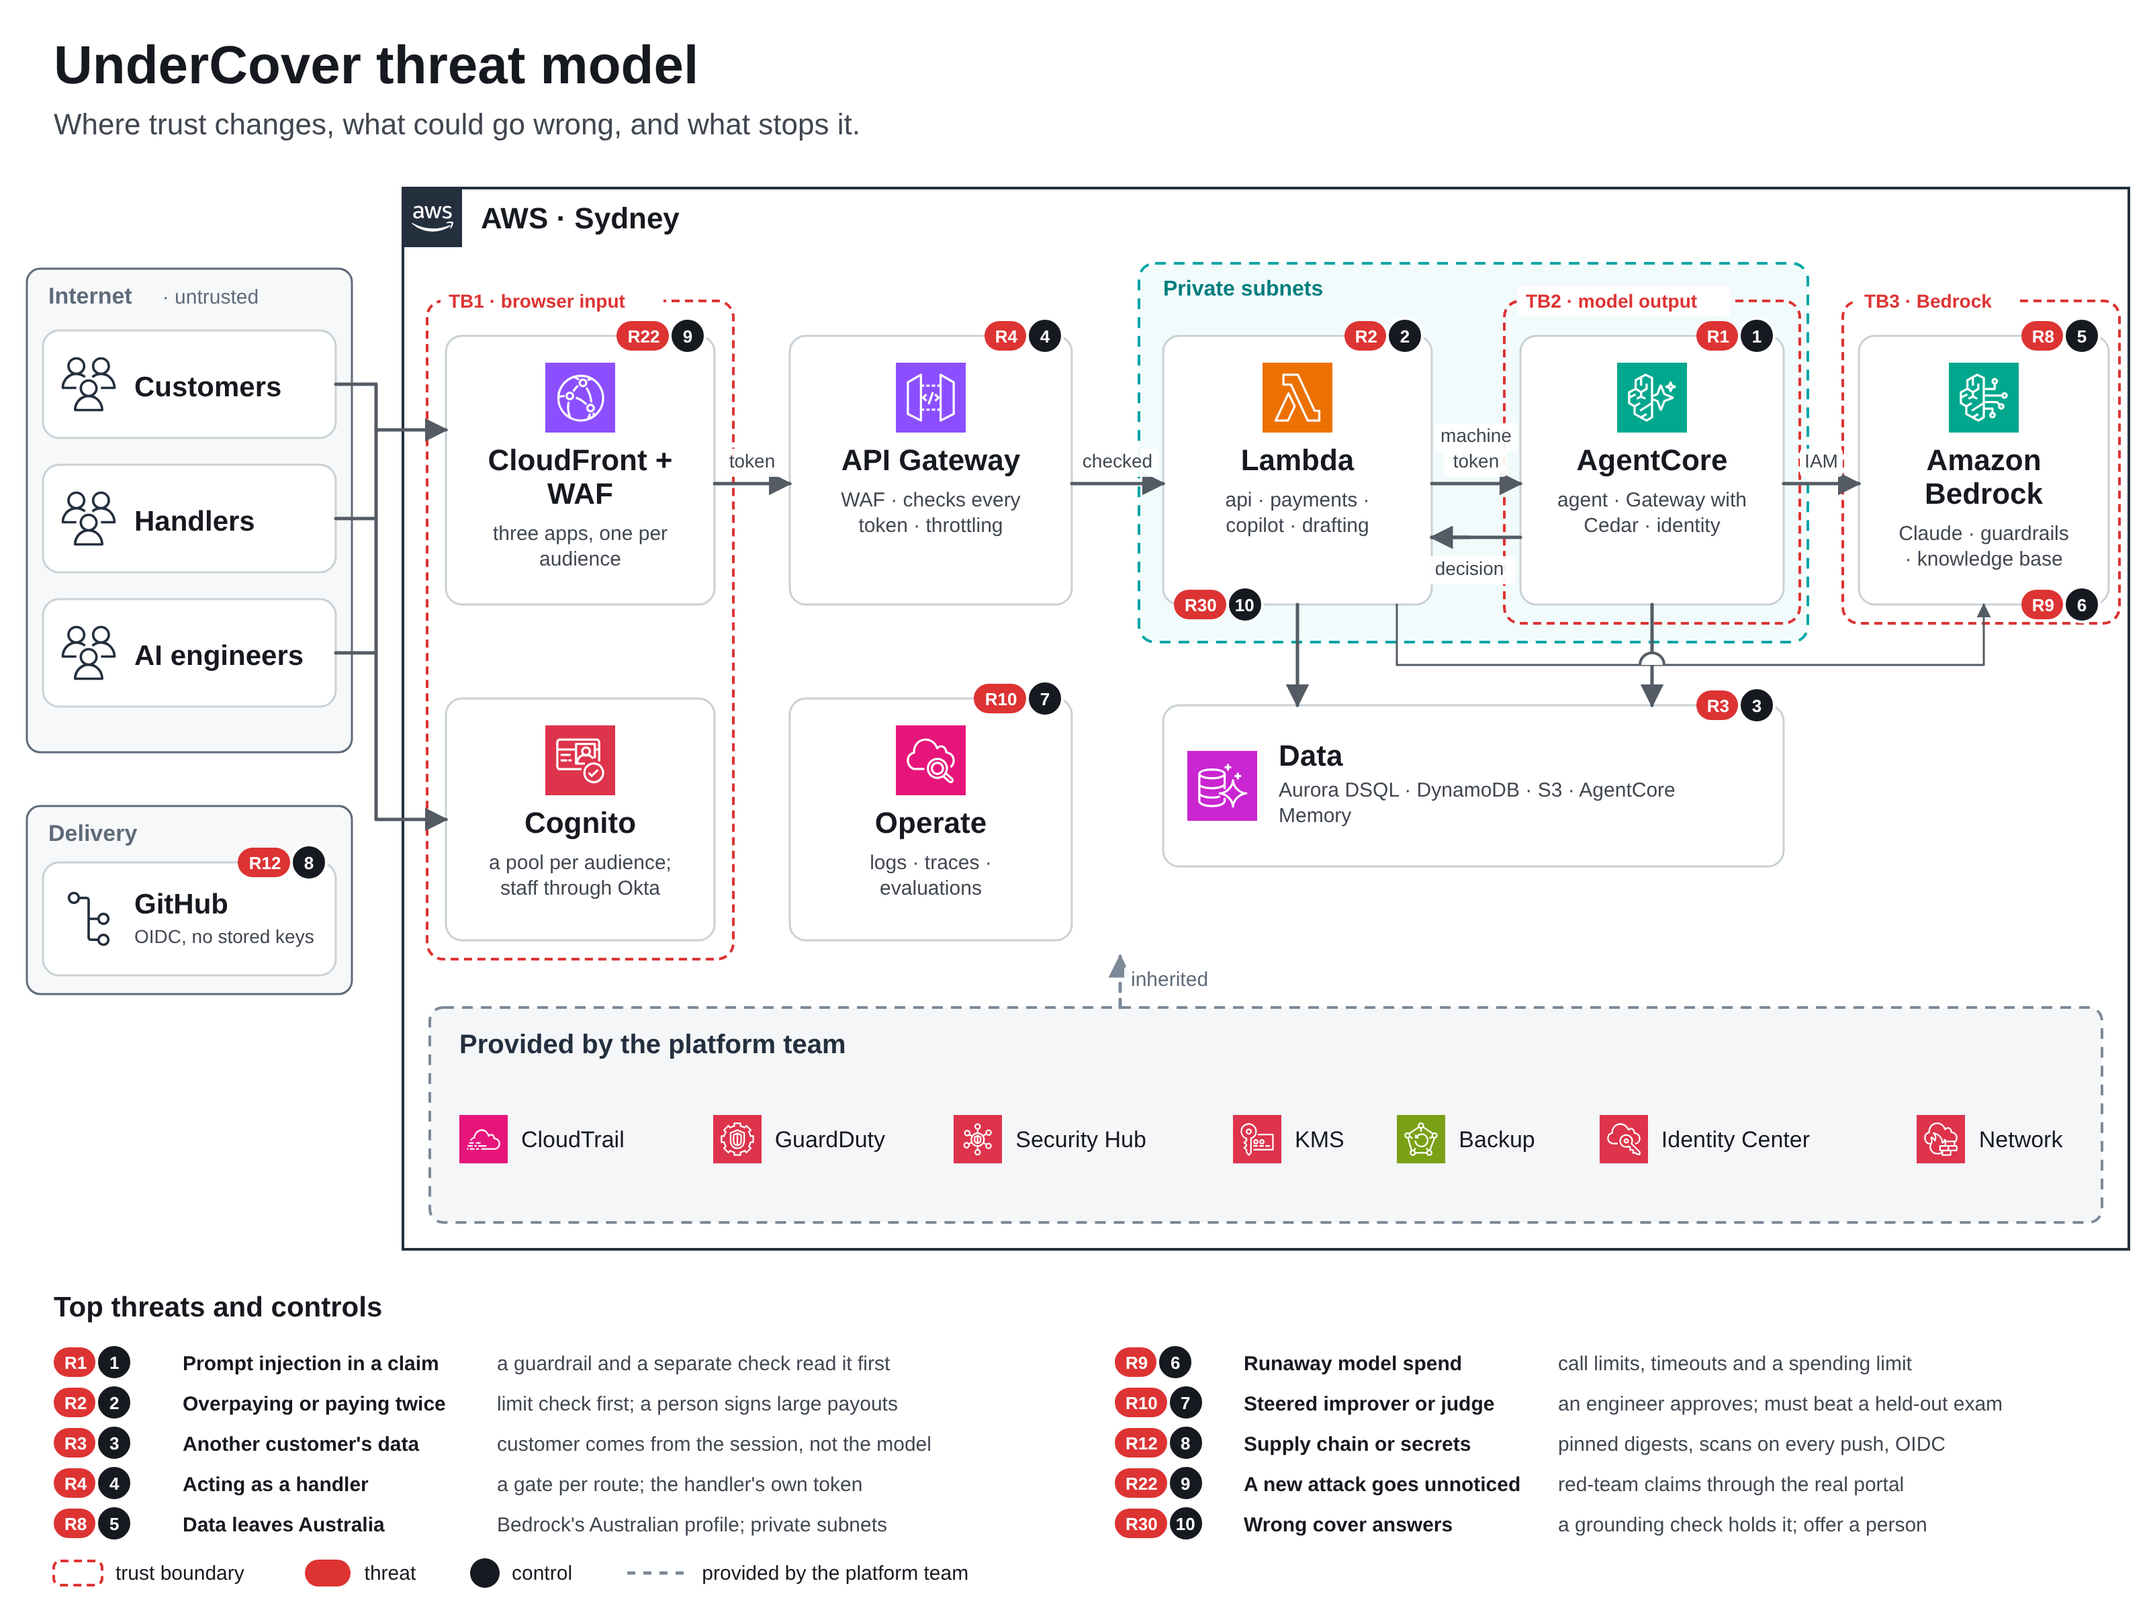
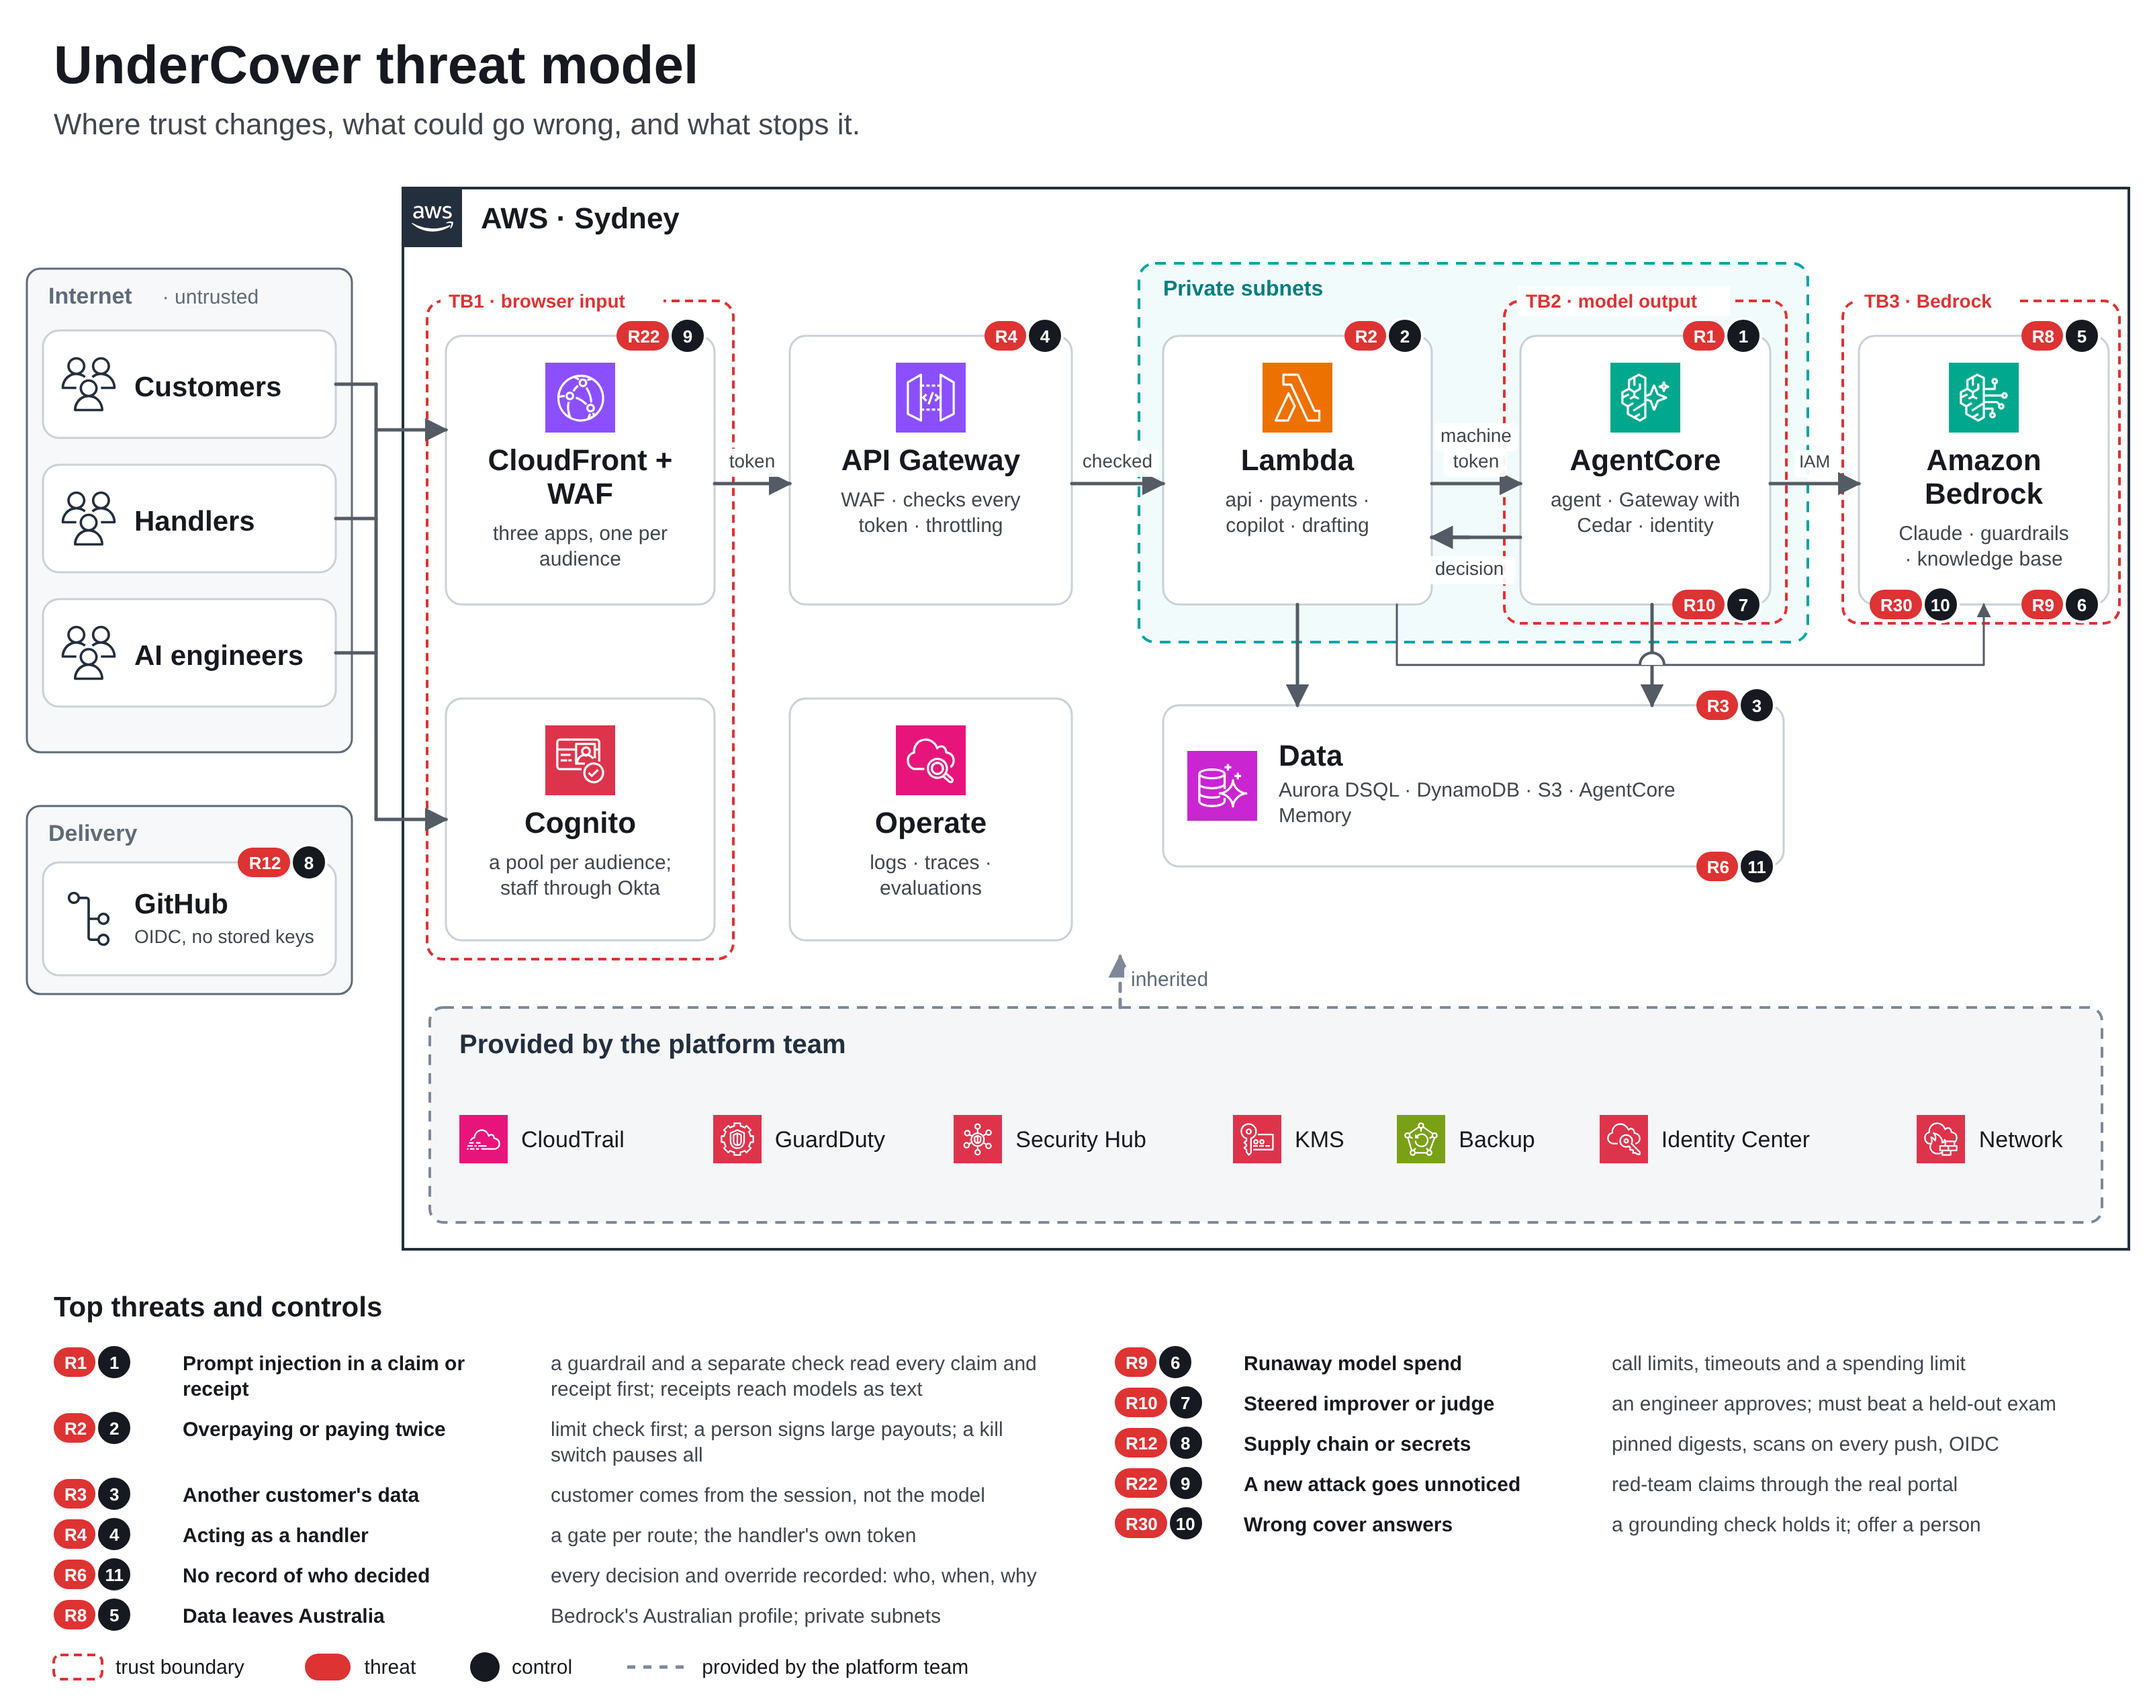
Threat model diagram: receipts in R1, the kill switch in R2, R6 for who decided, R10 and R30 where they land

diff --git a/docs/threat-model.md b/docs/threat-model.md
@@ -6,7 +6,7 @@ UnderCover on AWS, the design, with made-up data; locally, Docker runs the same 
 
 ![UnderCover threat model on AWS: trust boundaries, the top threats where they land, and the control that stops each](assets/threat-model.png)
 
-The overview above is the AWS design with the ten top risks and their controls. The detail below is every flow and trust boundary (TB1a to TB6) that the risks table refers to.
+The overview above is the AWS design with the eleven top risks and their controls, covering all six STRIDE categories. The detail below is every flow and trust boundary (TB1a to TB6) that the risks table refers to.
 
 ```mermaid
 flowchart LR
